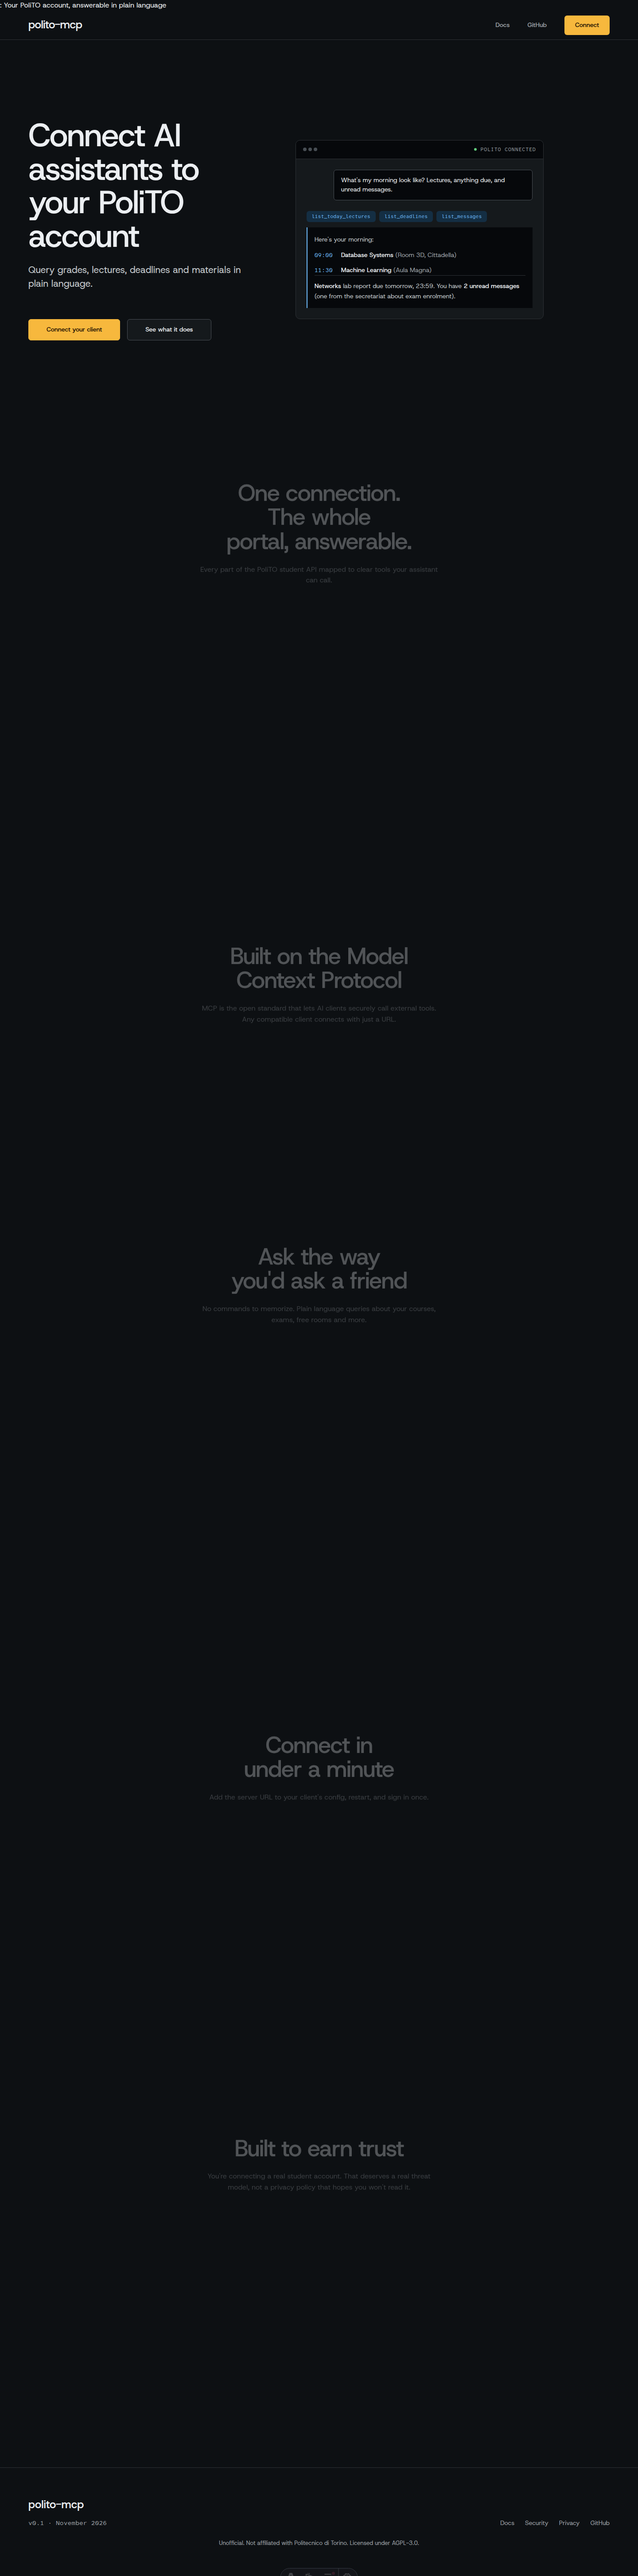
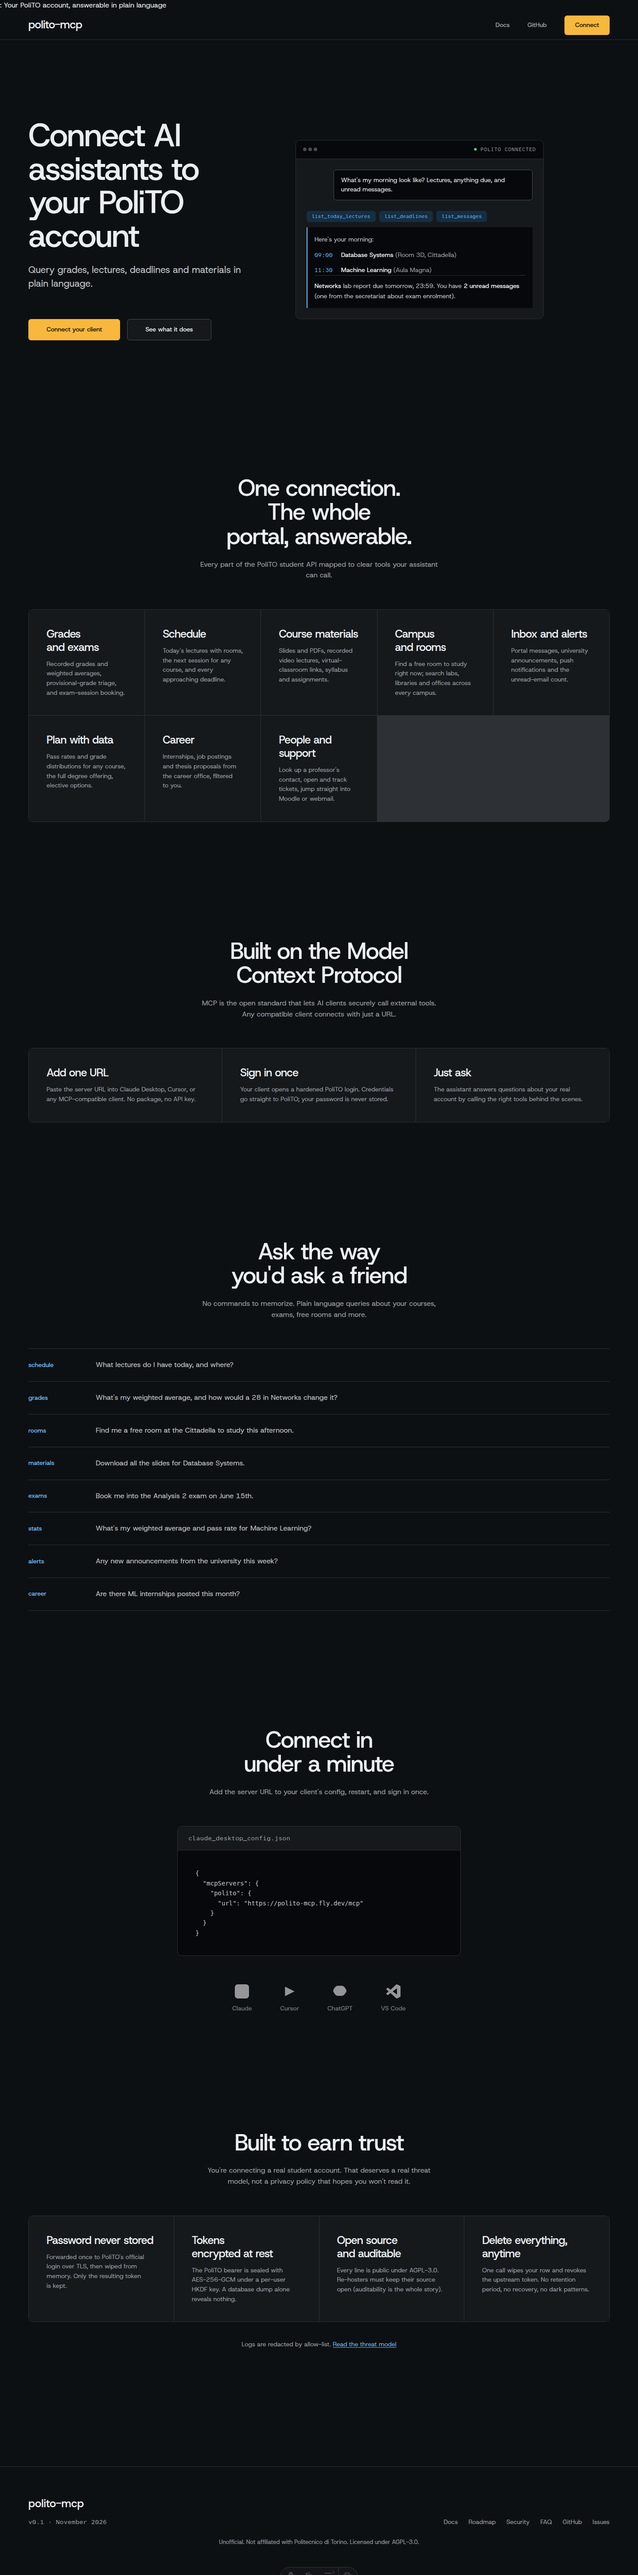
Fix reveal animations and restore proper content visibility
Major fixes:
1. Content visible by default - reveal animation only applies when JS is running
   - Added 'html.js' class set inline in <head>
   - CSS changed from '.reveal' to 'html.js .reveal'
   - Reduced-motion users see everything immediately
   - No-JS visitors and crawlers see full content
   - Shorter, subtler transitions (0.4s instead of 0.6s)

2. Self-hosted client logos as SVGs in apps/web/public/logos/
   - claude.svg, cursor.svg, chatgpt.svg, vscode.svg
   - No longer hotlinking GitHub avatars or external CDNs
   - Proper brand colors and simplified icons

3. Restored all real links from main branch
   - Footer: Docs, Roadmap, Security, FAQ, GitHub, Issues
   - Nav: Docs, GitHub, Connect
   - Examples: Link to /docs/tools/
   - All internal links working

4. Reverted to readable multi-line HTML
   - Proper indentation and formatting
   - All tags correctly nested and closed
   - Verified: 6 sections render correctly in DOM
   - All headings 541px wide at 1440px

5. Fresh screenshots with all content visible
   - Forced reveals on before capture
   - All feature cards, steps, queries, logos visible
   - Proper contrast on all text elements

The nesting issue was NOT due to multi-line HTML - Astro handles that fine.
Keeping readable, properly formatted markup.

diff --git a/apps/web/src/styles/page.css b/apps/web/src/styles/page.css
@@ -593,15 +593,15 @@ section + section {
 
 /* Reveal animation */
 @media (prefers-reduced-motion: no-preference) {
-  .reveal {
+  html.js .reveal {
     opacity: 0;
-    transform: translateY(16px);
+    transform: translateY(12px);
     transition:
-      opacity 0.6s var(--ease-out),
-      transform 0.6s var(--ease-out);
+      opacity 0.4s var(--ease-out),
+      transform 0.4s var(--ease-out);
   }
   
-  .reveal.is-in {
+  html.js .reveal.is-in {
     opacity: 1;
     transform: none;
   }
